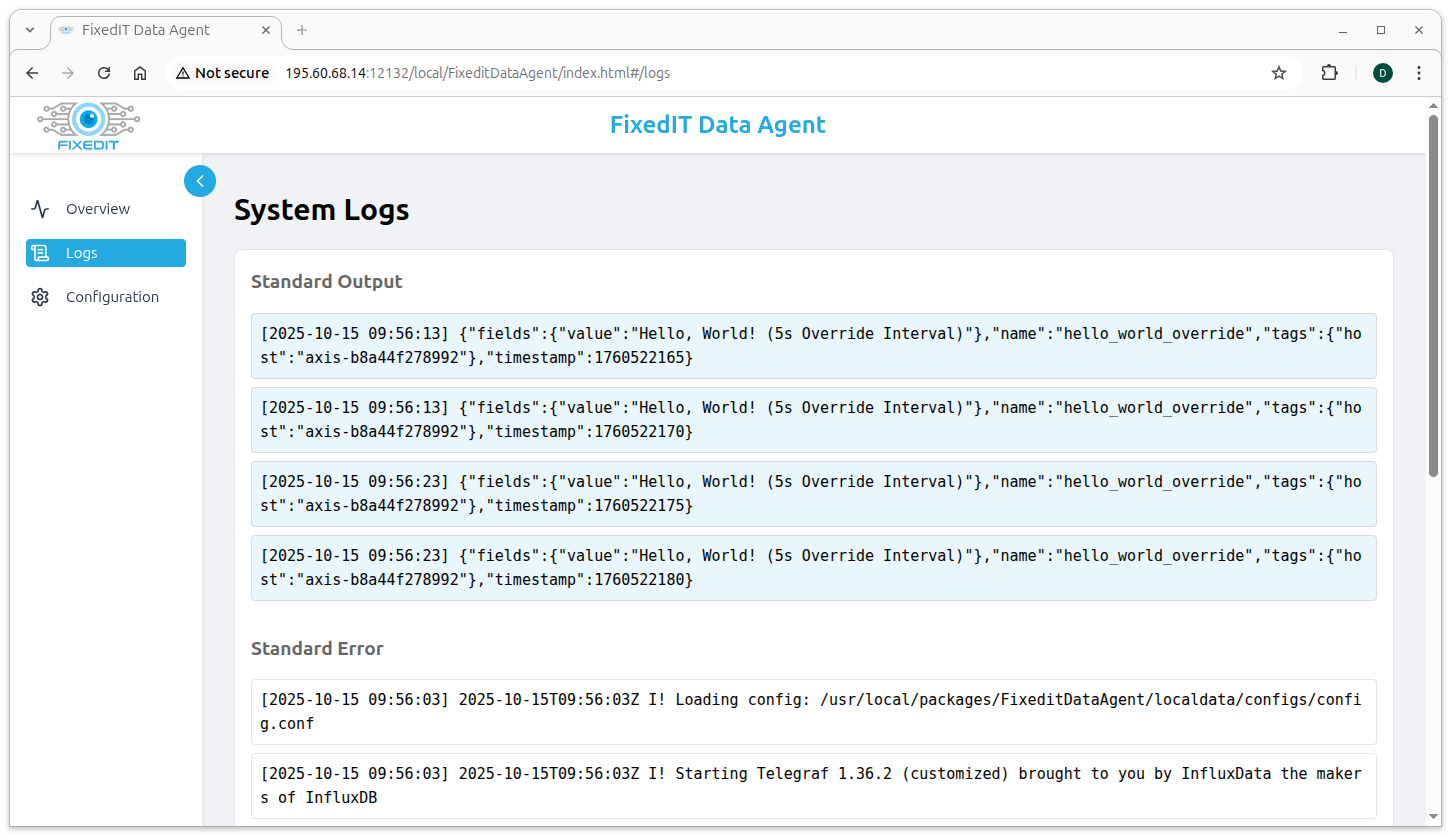
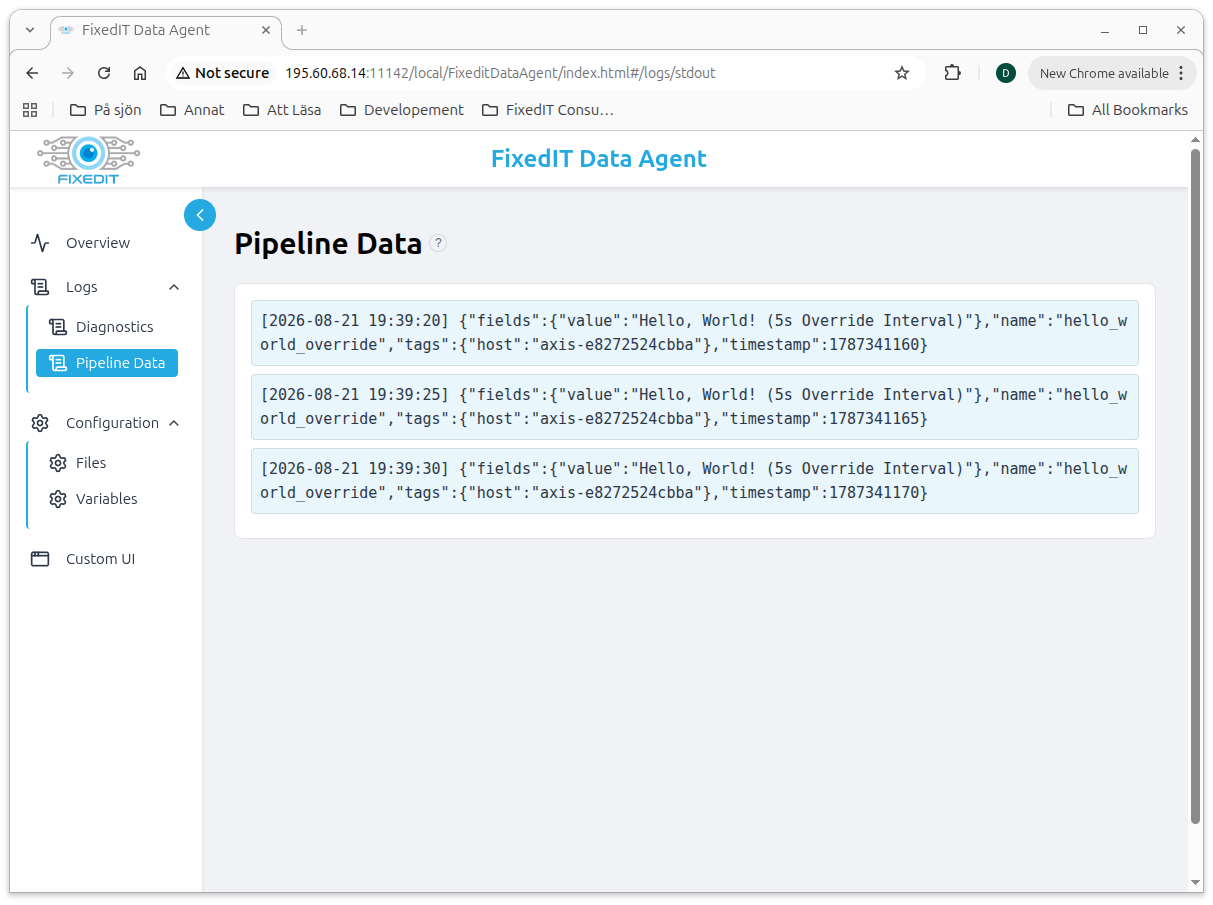
Update the hello-world-exec project

diff --git a/project-hello-world-exec/README.md b/project-hello-world-exec/README.md
@@ -1,16 +1,16 @@
 # Hello, World! (with exec input plugin)
 
-This is a simple "Hello, world!" project that demonstrates how to use the [FixedIT Data Agent](https://fixedit.ai/products-data-agent/) to print messages to the standard output of the Telegraf process, which will be captured by the FixedIT Data Agent and displayed in the `Logs` tab.
+This is a simple "Hello, world!" project that demonstrates how to use the [FixedIT Data Agent](https://fixedit.ai/products-data-agent/) to print messages to the standard output of the Telegraf process, which will be captured by the FixedIT Data Agent and displayed in the `Logs->Pipeline Data` tab.
 
 This is very similar to the [project-hello-world](../project-hello-world/) project, but instead of using the `inputs.mock` plugin to generate the input data, we are using the `inputs.exec` plugin to run a shell command. This guide also adds the [Running the Example Together with the Default Config Files](#running-the-example-together-with-the-default-config-files) section to show how to send the data to an InfluxDB database and use it there.
 
 ## How It Works
 
-This project defines two inputs that will run on an interval and produce a "Hello, World!" message. We make use of the `inputs.exec` plugin to run the `echo` command which will output the message. One input runs on the globally configured interval, and the other input runs on a more frequent interval. The `outputs.file` plugin is used to print all metrics to the standard output of the Telegraf process, which will be captured by the FixedIT Data Agent and displayed in the `Logs` tab.
+This project defines two inputs that will run on an interval and produce a "Hello, World!" message. We make use of the `inputs.exec` plugin to run the `echo` command which will output the message. One input runs on the globally configured interval, and the other input runs on a more frequent interval. The `outputs.file` plugin is used to print all metrics to the standard output of the Telegraf process, which will be captured by the FixedIT Data Agent and displayed in the `Logs->Pipeline Data` tab.
 
 ```mermaid
 flowchart TD
-    X0["⚙ Configuration Variables:<br/>SYNC_INTERVAL_SECONDS, TELEGRAF_DEBUG"] --> X1
+    X0["⚙ Configuration Variables:<br/>SYNC_INTERVAL_SECONDS, FLUSH_INTERVAL_SECONDS, TELEGRAF_DEBUG<br/>METRIC_BATCH_SIZE, METRIC_BUFFER_LIMIT"] --> X1
     X1["Telegraf Agent"]
 
     X2["Configuration override:<br/>'interval'"] --> A2
@@ -37,7 +37,7 @@ Color scheme:
 
 With the FixedIT Data Agent, you can create your own edge-based workflows and automations that run directly in the Axis devices. You can do this without knowing anything about the Axis ACAP SDK, C and C++ programming. This makes the edge available to a much wider audience of developers, system integrators and IT professionals.
 
-This simple project demonstrates how to configure different inputs with different intervals in the FixedIT Data Agent and how to propagate that data to the logs tab of the FixedIT Data Agent. It's a great starting point for understanding the basics of the agent's configuration system.
+This simple project demonstrates how to configure different inputs with different intervals in the FixedIT Data Agent and how to propagate that data to the `Logs->Pipeline Data` tab of the FixedIT Data Agent. It's a great starting point for understanding the basics of the agent's configuration system.
 
 ## Table of Contents
 
@@ -50,7 +50,7 @@ This simple project demonstrates how to configure different inputs with differen
 - [Files](#files)
 - [Configuration Details](#configuration-details)
 - [Running the Example Together with the Default Config Files](#running-the-example-together-with-the-default-config-files)
-- [Local Testing on Host](#local-testing-on-host)
+- [Advanced: Local Testing on Host](#advanced-local-testing-on-host)
   - [Prerequisites](#prerequisites)
   - [Test Commands](#test-commands)
 
@@ -66,64 +66,70 @@ This simple project demonstrates how to configure different inputs with differen
 ### FixedIT Data Agent Compatibility
 
 - **Minimum Data Agent version**: 1.1
-- **Required features**: `SYNC_INTERVAL_SECONDS` environment variable (added in FixedIT Data Agent v1.1).
+- **Required features**: `SYNC_INTERVAL_SECONDS` and `FLUSH_INTERVAL_SECONDS` environment variables (added in FixedIT Data Agent v1.1).
 
 ## Quick Setup
 
 1. **Disable the default config files**
 
-The FixedIT Data Agent comes with default config files for collecting system metrics and sending them to a database. Since we don't want to use those now, click the `Disable` button next to the "Bundled config files"
-in the "Configuration" tab of the FixedIT Data Agent.
+   The FixedIT Data Agent comes with default config files for collecting system metrics and sending them to a database. Since we don't want to use those now, click the `Disable` button next to the "Bundled config files" in the "Configuration" tab of the FixedIT Data Agent.
 
-![Disable bundled config files](../project-hello-world/.images/bundled-configs.png)
+   ![Disable bundled config files](../project-hello-world/.images/bundled-configs.png)
 
 2. **Upload and enable the `config.conf` file to the FixedIT Data Agent**
 
-Click the `Upload Config` button in the "Configuration" tab of the FixedIT Data Agent and upload the `config.conf` file. Then press the `Enable` button next to the `config.conf` file.
+   Click the `Upload Config` button in the "Configuration->Files" tab of the FixedIT Data Agent and upload the `config.conf` file. Then press the `Enable` button next to the `config.conf` file.
 
-![Upload config](../project-hello-world/.images/config-page.png)
+   ![Upload config](../project-hello-world/.images/config-page.png)
 
-3. **Go to the "Logs" tab and verify the data**
+3. **Go to the "Logs->Pipeline Data" tab and verify the metrics**
 
-It might take a few seconds before Telegraf has been restarted with the new config file. After this, you should see the "Hello, World!" messages appearing as JSON in the Logs tab at two different intervals:
+   It might take a few seconds before Telegraf has been restarted with the new config file. After this, you should see the metrics appearing as JSON in the "Logs->Pipeline Data" tab at two different intervals:
+   - The `hello_world_override` metric with `"Hello, World! (5s Override Interval)"` in the `value` field every 5 seconds
+   - The `hello_world_global` metric with `"Hello, World! (Global Interval)"` in the `value` field every 60 seconds
 
-- One message following the global interval (defaults to 60 seconds in the FixedIT Data Agent but can be changed from the application settings)
-- Another message every 5 seconds
-
-![Logs tab](.images/logs-page.png)
+   ![Pipeline Data tab](.images/logs-page.png)
 
 4. **Reconfigure the FixedIT Data Agent variables:**
 
-   The `config.conf` file is making use of the `SYNC_INTERVAL_SECONDS` and `TELEGRAF_DEBUG` environment variables. You can configure these in the "Settings" tab of the FixedIT Data Agent by going back to the camera web interface, going to the "Apps" section, pressing the three dots next to the FixedIT Data Agent and selecting "Settings". Try changing the "Sync interval seconds" to 10 seconds and the "Debug mode" to true.
+   The `config.conf` file is making use of the `SYNC_INTERVAL_SECONDS`, `FLUSH_INTERVAL_SECONDS` and
+   `TELEGRAF_DEBUG` environment variables which are by default set by the FixedIT Data Agent and controlled
+   from the form in the "Basic environment variables" section in the "Configuration->Variables" tab. See the [project-hello-world](../project-hello-world/) example for more details.
+
+   Try changing the "Sync interval" to 1 second in the "Configuration->Variables" tab.
 
    ![Plain settings](../project-hello-world/.images/settings.png)
 
-   You should now see the global interval message appearing every 10 seconds instead. By scrolling down to the bottom of the logs where you find the internal Telegraf logs (by default printed to the "Standard Error" section), you will now see more verbose log messages such as `Wrote batch of 3 metrics in 4.322833ms` and `Buffer fullness: 0 / 10000 metrics`. This means that the metrics was successfully written to the output (`output.file` plugin) and that the buffer is now empty waiting for the next batch of metrics.
+   When inspecting the "Logs->Pipeline Data" tab again, you should now see the global interval message appearing every second instead.
 
 ## Files
 
-- `config.conf` - Combined configuration file containing both inputs and the output configuration
+- `config.conf`: Combined configuration file containing both inputs and the output configuration.
 
 ## Configuration Details
 
 The project uses the following components:
 
 1. **Input Configurations**
-   - Global interval input: Uses the exec input plugin to run an echo command every `SYNC_INTERVAL_SECONDS` seconds.
-   - Override interval input: Same as above, but every 5 seconds regardless of the value of the `SYNC_INTERVAL_SECONDS` variable.
+   - Global interval input: Uses the `exec` input plugin to run an `echo` command every `SYNC_INTERVAL_SECONDS` seconds, producing a `hello_world_global` metric.
+   - Override interval input: Same as above, but every 5 seconds regardless of the value of the `SYNC_INTERVAL_SECONDS` variable, producing a `hello_world_override` metric.
 
 2. **Output Configuration**
-   - Uses the file output plugin configured to write to stdout
-   - Data format is set to "json"
+   - Uses the `file` output plugin configured to write to `stdout`.
+   - The output data format is set to `json`.
 
 3. **Data Flow**
-   - By default, all inputs are connected to all outputs.
+   - Since the output plugin does not specify any filters, it will consume all metrics produced by both input plugins.
 
 ## Running the Example Together with the Default Config Files
 
-One of the steps in the quick setup was to disable the default config files. The reason for doing this is that the default behavior of Telegraf is to connect all inputs to all outputs. You can upload the same config file to the FixedIT Data Agent while having the bundled config files enabled. This will work assuming that you have already configured the InfluxDB variables according to the quick start guide for the FixedIT Data Agent.
+One of the steps in the quick setup was to disable the default config files. The reason for doing this is that the default behavior of Telegraf is to connect all inputs to all outputs. You can upload the same config file to the FixedIT Data Agent while having the bundled config files enabled. This will work assuming that you have already configured the InfluxDB variables according to the `QUICKSTART_GUIDE.pdf` guide for the FixedIT Data Agent.
 
-When doing this, you will see a lot of output in the "Logs" tab. This is because your new "output everything to stdout" plugin will consume all metrics from all configuration files and print all of them to stdout. The same is true for the new inputs that you created, the "Hello, World!" messages will also be sent to InfluxDB using the output defined in the bundled config files.
+When doing this, you will see a lot of output in the "Logs->Pipeline Data" tab. This is because your new "output everything to stdout" plugin will consume all metrics from all configuration files and print all of them to stdout.
+
+![Output everything to stdout](.images/logs-page-more.png)
+
+The same is true for the new inputs that you created, the "Hello, World!" messages will also be sent to InfluxDB using the output defined in the bundled config files.
 
 ![The data explorer in InfluxDB](.images/influxdb.png)
 
@@ -155,28 +161,29 @@ flowchart TD
     style C2 fill:#FFF9FA,stroke:#24a9e1
 ```
 
-## Local Testing on Host
+## Advanced: Local Testing on Host
 
-You can test this project locally using Telegraf before deploying to your Axis device.
+As your projects grow, it can be valuable to try changes on your computer first rather than uploading every tweak to the Axis device. Doing so require a bit more setup, so you might want to skip this section until later.
 
 ### Prerequisites
 
-- Requires Linux: since this example makes use of the `inputs.exec` plugin to run shell-commands, it will only work on Linux (or WSL under Windows). For a simple Windows example, see [project-hello-world](../project-hello-world/).
+- Requires Linux: since this example makes use of the `inputs.exec` plugin to run shell commands, it will only work on Linux (or WSL under Windows). For a simple Windows example, see [project-hello-world](../project-hello-world/).
 - Install Telegraf on your development machine.
 
 ### Test Commands
 
-First, set up the two environment variables (which are automatically set by the FixedIT Data Agent when running the project in the Axis device):
+On the Axis device, the FixedIT Data Agent sets `SYNC_INTERVAL_SECONDS`, `FLUSH_INTERVAL_SECONDS`, and `TELEGRAF_DEBUG` for you. When running Telegraf on your host, export those variables first. On Linux:
 
 ```bash
-export SYNC_INTERVAL_SECONDS="10"
+export SYNC_INTERVAL_SECONDS="1"
+export FLUSH_INTERVAL_SECONDS="1"
 export TELEGRAF_DEBUG="true"
 ```
 
 Then run Telegraf with the configuration file:
 
 ```bash
-telegraf --config config.conf
+telegraf --config config.conf --non-strict-env-handling
 ```
 
-You should now see some internal Telegraf logs on `stderr` and the JSON messages with the "Hello, World!" string appearing every now and then on `stdout`.
+You should now see some internal Telegraf logs on `stderr` and JSON metrics on `stdout`, including `hello_world_global` every `SYNC_INTERVAL_SECONDS` seconds and `hello_world_override` every 5 seconds.
